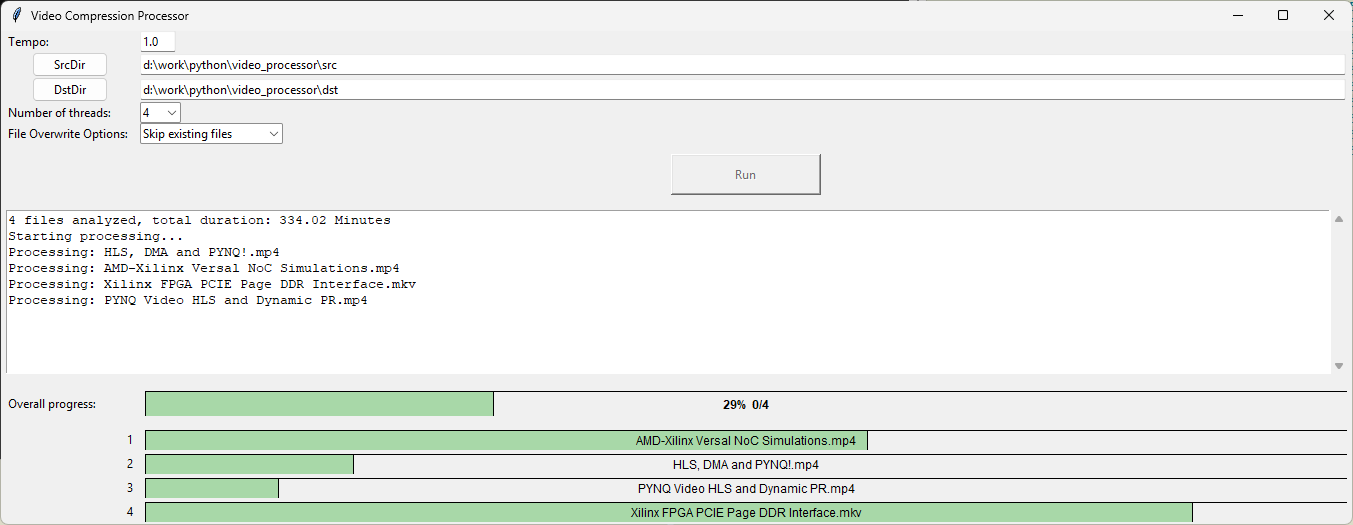
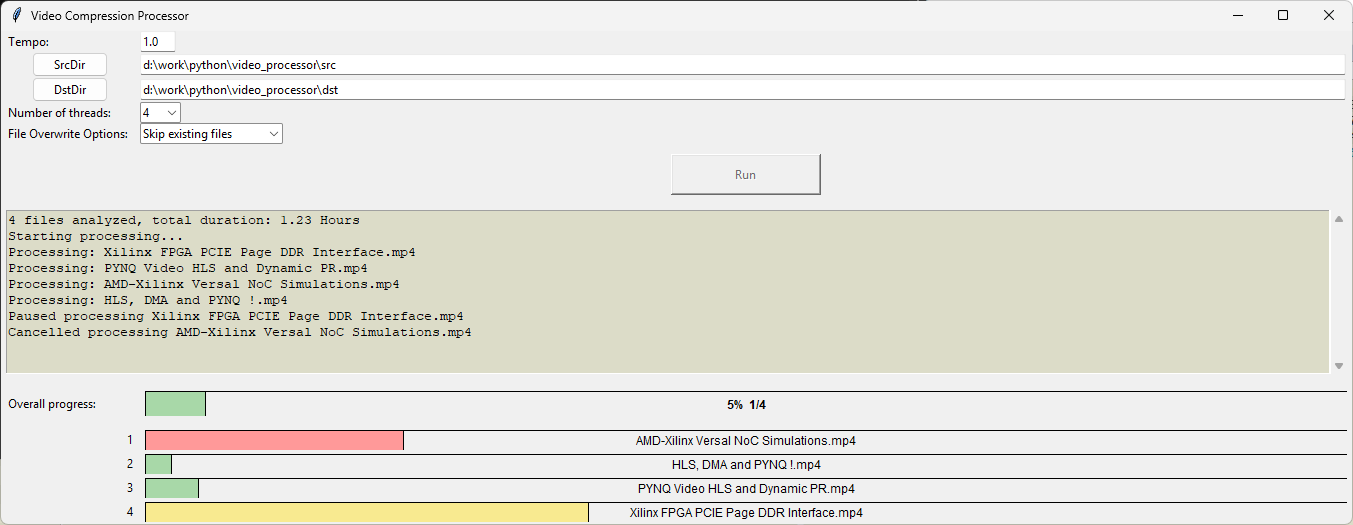
Updated Readme.md

diff --git a/video_processor.py b/video_processor.py
@@ -12,7 +12,6 @@ import threading
 import queue
 import time
 import logging
-import re
 import psutil
 
 # Default values for the application
@@ -1030,7 +1029,7 @@ class VideoProcessor:
         p.suspend()
         progress_bar.paused.set(True)
         progress_bar.draw_progress_bar()
-        if messagebox.askyesno("Confirm Kill", f"Are you sure you want to kill the process for {filename}?"):
+        if messagebox.askyesno("Cancel Processing?", f"Are you sure you want to Cancel process for {filename}?"):
           try:
             p.kill()
             # Wait for the process to terminate to release file locks

diff --git a/Readme.md b/Readme.md
@@ -12,7 +12,8 @@ A Python GUI application for video files batch processing, with compression and 
 - Supports multiple video formats (MP4, MKV, AVI, WEBM, FLV, WMV)
 - Dynamic progress tracking for individual files and overall progress, based on processed time feedback from FFMPEG
 - Configurable file overwrite behavior (Skip/Overwrite/Rename)
-- Settings persistence between sessions (saves its configuration in config file)
+- Settings persistence between sessions (saves its configuration in a config file)
+- File processsing Cancelation🔴 (left double-click) or Pausing🟡 / Resuming🟢 (right-click)
 
 ## Requirements
 
@@ -21,12 +22,13 @@ A Python GUI application for video files batch processing, with compression and 
 - Python packages:
   - tkinter (usually comes with Python)
   - configparser
+  - psutil
 
 ## Installation
 
 1. Ensure Python 3.x is installed on your system
 2. Download and install FFmpeg (with FFprobe)
-3. Download `vidoe_processor.py` and run it
+3. Download `video_processor.py` and run it
 
 ## Configuration
 
@@ -50,12 +52,23 @@ The application saves its configuration in `video_processor_config.ini` file, wh
    - Rename existing files
 7. Click "Run" to start processing
 
+## Interaction
+
+- **Pause/Resume**: Right-click on a file progress bar in processing list to Pause🟡 or Resume🟢 its processing.
+- **Cancel**: Double-click on a file progress bar in processing list to Cancel🔴 its processing.
+
+| File Processing Status      | Progress Bar Color      |
+| ------------- | ------------- |
+| Normal processing; Resumed; next after Canceled | 🟢 Green |
+| Paused (right-click); or when "Cancel Processing?" message box is shown after a left double-click | 🟡 Yellow |
+| Canceled (and there are no next files to schedule) | 🔴 Red |
+
 ## Processing Options
 
 - **Tempo**: Value between 0 and 2
   - < 1: Slower playback
   - 1: Normal speed
-  - > 1: Faster playback
+  - \> 1: Faster playback
 - **Threads**: 1-DFLT_N_THREADS_MAX concurrent processing threads
 - **Overwrite Options**:
   - Skip: Preserve existing files
@@ -72,30 +85,30 @@ The FFMPEG command used for **compression (without tempo)** is the following:
 ffmpeg_command = [
   str(self.ffmpeg_path.get()),
   # General options
-  "-i", src_file_path,
+  "-i", src_file_path,            # Input file
   # Filter options
-  "-vf", "scale=640:360",
-  "-pix_fmt", "yuv420p",
+  "-vf", "scale=640:360",         # Video filter for scaling
+  "-pix_fmt", "yuv420p",          # Pixel format for compatibility
   # Video options
-  "-c:v", "libaom-av1",
-  "-b:v", "70k",
-  "-crf", "30",
-  "-cpu-used", "8",
-  "-row-mt", "1",
-  "-g", "240",
-  "-aq-mode", "0",
+  "-c:v", "libaom-av1",           # Video codec: AV1
+  "-b:v", "70k",                  # Video bitrate
+  "-crf", "30",                   # Constant Rate Factor (quality)
+  "-cpu-used", "8",               # CPU usage for encoding speed
+  "-row-mt", "1",                 # Enable row-based multithreading
+  "-g", "240",                    # Group of pictures (GOP) size
+  "-aq-mode", "0",                # Adaptive quantization mode
   # Audio options
-  "-c:a", "aac",
-  "-b:a", "80k",
+  "-c:a", "aac",                  # Audio codec: AAC
+  "-b:a", "80k",                  # Audio bitrate
   # Output options
   dst_file_path,
-  "-y",  # Force overwrite output file
+  "-y",                           # Force overwrite output file
   # Progress reporting
-  "-progress", "pipe:1", # Pipe progress to stdout
-  "-nostats", # Disable default stats output
+  "-progress", "pipe:1",          # Pipe progress to stdout
+  "-nostats",                     # Disable default stats output
   # Logging options
-  "-hide_banner",
-  "-loglevel", "error",
+  "-hide_banner",                 # Hide FFmpeg banner
+  "-loglevel", "error",           # Set log level to error
 ]
 ```
 
@@ -106,8 +119,8 @@ When **Tempo** is used (Tempo != 1), additional parameters are added:
 # For video files we need to use tempo value for audio stream and PTS=1/tempo for video
 PTS = 1 / self.tempo.get() # PTS is 1/tempo
 ffmpeg_tempo_params = [
-  "-filter:v", f"setpts={PTS:.8f}*PTS,scale=640:360",
-  "-filter:a", f"atempo={self.tempo.get()}",  # tempo audio filter
+  "-filter:v", f"setpts={PTS:.8f}*PTS,scale=640:360", # Video filter for changing speed and scaling
+  "-filter:a", f"atempo={self.tempo.get()}",          # Audio filter for changing tempo
 ]
 # Replace ["-vf", "scale=640:360"], use single combined video filter
 # Cmd example:
